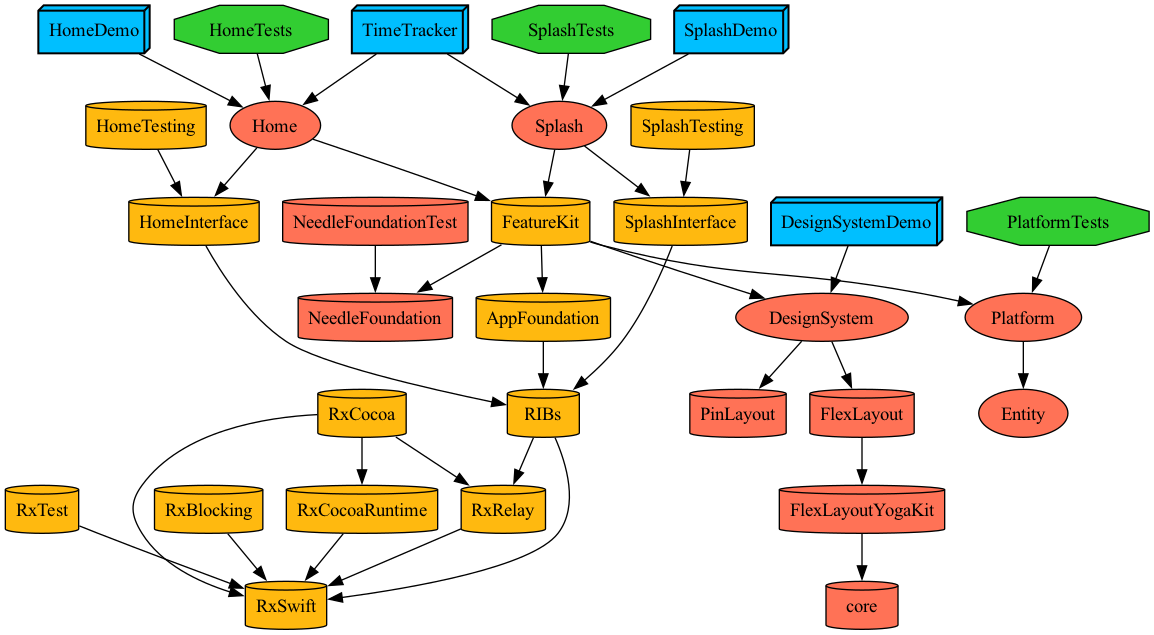
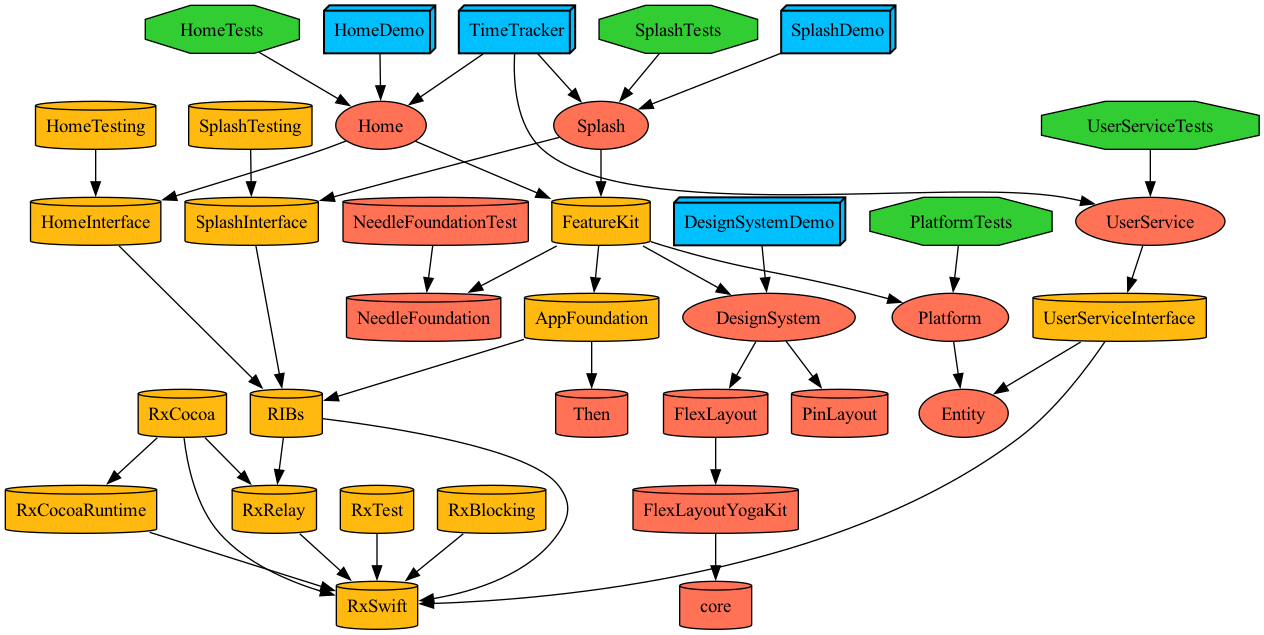
add then library

diff --git a/Package.swift b/Package.swift
@@ -22,6 +22,7 @@ let packageSetting = PackageSettings(
 let package = Package(
   name: "Package",
   dependencies: [
+    .package(url: "https://github.com/devxoul/Then", from: "3.0.0"),
     .package(url: "https://github.com/uber/needle", from: "0.25.1"),
     .package(url: "https://github.com/ReactiveX/RxSwift", from: "6.8.0"),
     .package(url: "https://github.com/layoutBox/PinLayout", from: "1.10.5"),

diff --git a/Plugin/DependencyPlugin/ProjectDescriptionHelpers/Dependency+SPM.swift b/Plugin/DependencyPlugin/ProjectDescriptionHelpers/Dependency+SPM.swift
@@ -5,6 +5,7 @@ public extension TargetDependency {
 }
 
 public extension TargetDependency.SPM {
+  static let Then = TargetDependency.external(name: "Then")
   static let Needle = TargetDependency.external(name: "NeedleFoundation")
   static let RxSwift = TargetDependency.external(name: "RxSwift")
   static let PinLayout = TargetDependency.external(name: "PinLayout")

diff --git a/Projects/Shared/AppFoundation/Project.swift b/Projects/Shared/AppFoundation/Project.swift
@@ -11,7 +11,8 @@ let project = Project.module(
       ),
       product: .framework,
       dependencies: [
-        .SPM.RIBs
+        .SPM.RIBs,
+        .SPM.Then
       ]
     )
   ]
